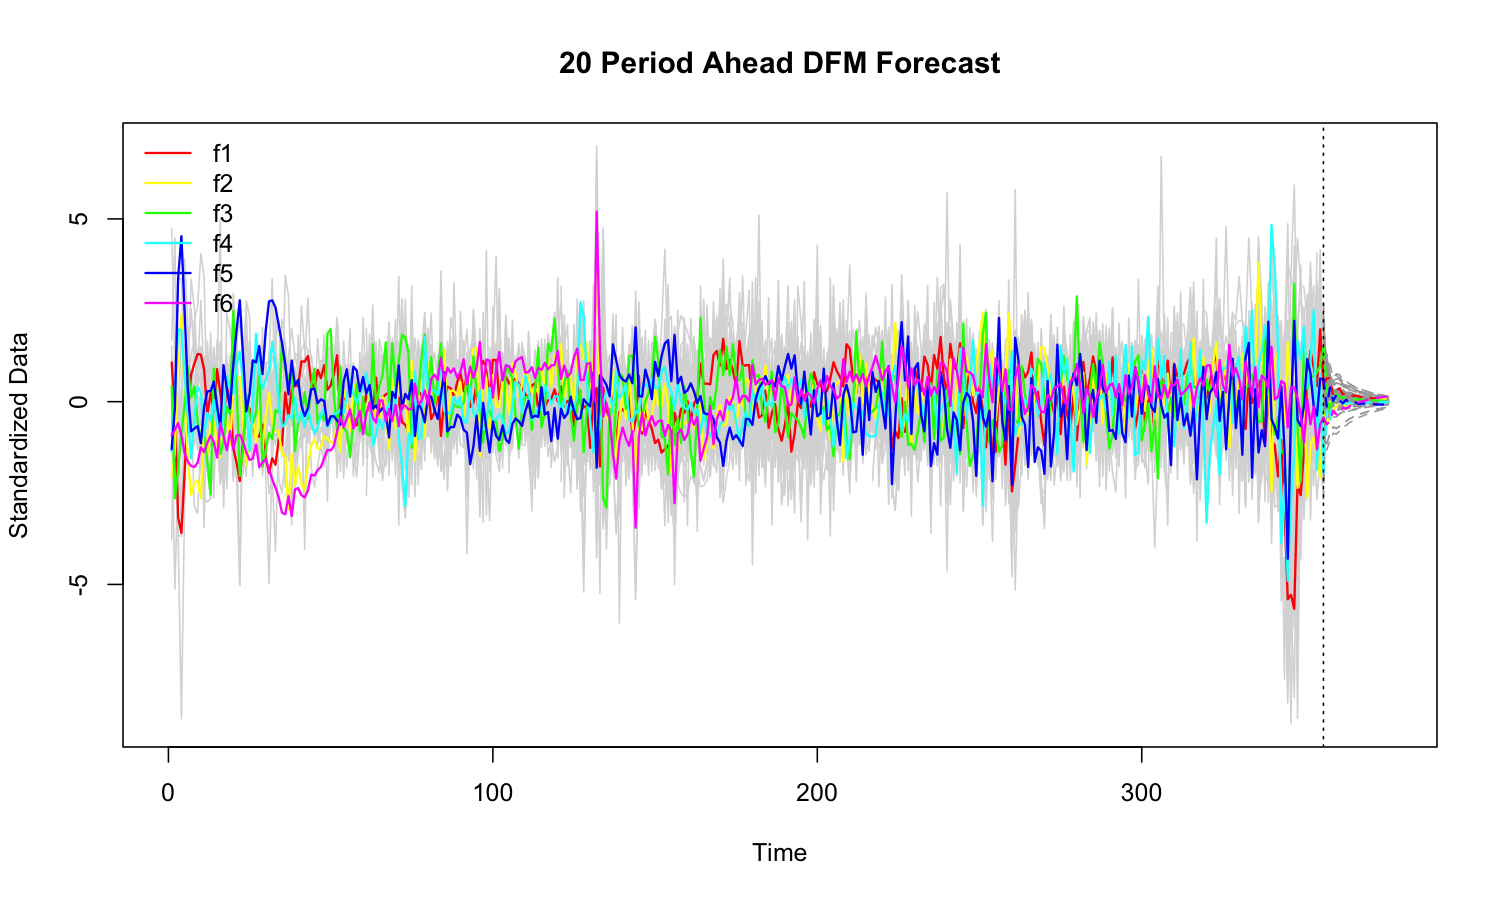
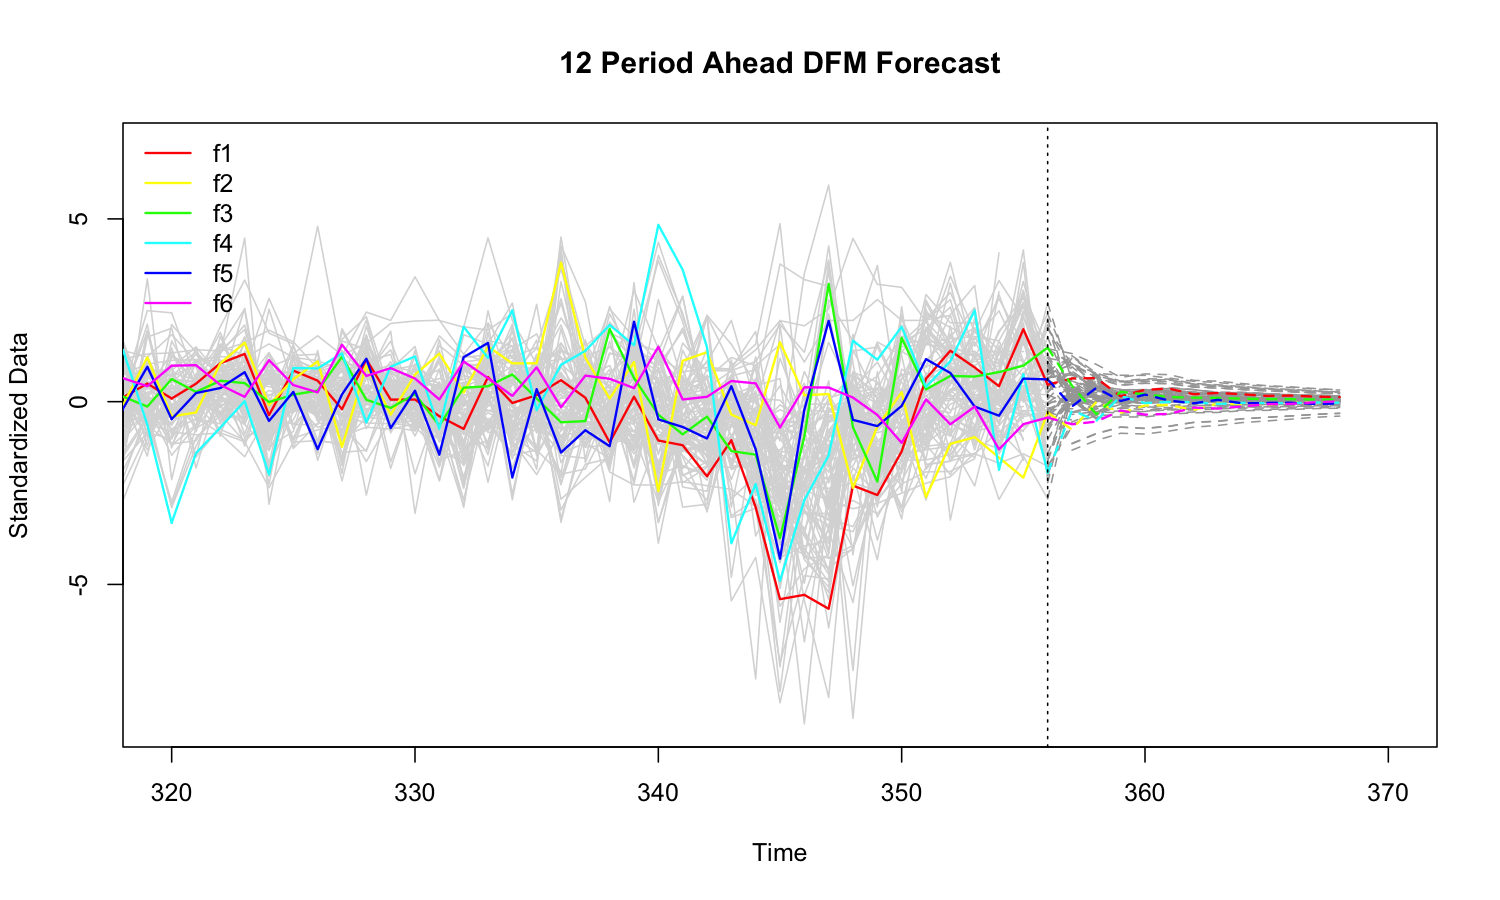
Minor fixes to README example.

diff --git a/README.md b/README.md
@@ -70,9 +70,7 @@ summary(mod)
 ```
 
 ```
-## Mixed Frequency Dynamic Factor Model
-## n = 92, nm = 92, nq = 0, T = 356, r = 6, p = 3
-## %NA = 25.8366, %NAm = NA
+## Dynamic Factor Model: n = 92, T = 356, r = 6, p = 3, %NA = 25.8366
 ## 
 ## Call:  DFM(X = diff(BM14_M), r = 6, p = 3)
 ## 
@@ -86,27 +84,20 @@ summary(mod)
 ## f6  356  -0.8361   -0.304  3.1406  -11.6611  15.4897
 ## 
 ## Factor Transition Matrix [A]
-##       L1.f1    L1.f2     L1.f3    L1.f4    L1.f5    L1.f6    L2.f1    L2.f2
-## f1  0.53029 -0.53009  0.367302  0.04607 -0.06351  0.10310  0.02457  0.11673
-## f2 -0.28380  0.07421 -0.032292  0.29741 -0.10094  0.21989  0.09958 -0.09149
-## f3  0.17607  0.12979  0.378798 -0.06662 -0.12236  0.06685 -0.08068  0.09101
-## f4  0.02711  0.08936  0.004643  0.37159  0.12100 -0.02763  0.01234 -0.05147
-## f5 -0.26227 -0.03469 -0.046294  0.12712  0.26847  0.03141  0.06400  0.01971
-## f6  0.08251  0.17619 -0.013374 -0.08731 -0.03875  0.27812 -0.01662  0.04877
-##       L2.f3    L2.f4     L2.f5    L2.f6    L3.f1    L3.f2    L3.f3    L3.f4
-## f1 -0.12638  0.23135  0.117184  0.21941  0.18478  0.02259 -0.03719 -0.07236
-## f2  0.06708 -0.09768 -0.043057  0.08489  0.21107  0.16261  0.03057  0.04835
-## f3 -0.22232  0.09799 -0.060666 -0.18028 -0.02773  0.01798  0.10143 -0.12420
-## f4  0.02195  0.01266  0.050912  0.05144 -0.05601  0.04665  0.05710 -0.11412
-## f5  0.04806 -0.03965 -0.009952 -0.18471  0.08332 -0.04640 -0.02047  0.02458
-## f6  0.02279  0.01163 -0.100859  0.07152  0.00792  0.06071  0.11381  0.02520
-##       L3.f5    L3.f6
-## f1 -0.03026 -0.12606
-## f2  0.12249  0.13357
-## f3  0.04207 -0.07011
-## f4 -0.05680 -0.01609
-## f5  0.16397  0.07820
-## f6 -0.17897  0.30328
+##       L1.f1    L1.f2     L1.f3    L1.f4    L1.f5    L1.f6    L2.f1    L2.f2    L2.f3
+## f1  0.53029 -0.53009  0.367302  0.04607 -0.06351  0.10310  0.02457  0.11673 -0.12638
+## f2 -0.28380  0.07421 -0.032292  0.29741 -0.10094  0.21989  0.09958 -0.09149  0.06708
+## f3  0.17607  0.12979  0.378798 -0.06662 -0.12236  0.06685 -0.08068  0.09101 -0.22232
+## f4  0.02711  0.08936  0.004643  0.37159  0.12100 -0.02763  0.01234 -0.05147  0.02195
+## f5 -0.26227 -0.03469 -0.046294  0.12712  0.26847  0.03141  0.06400  0.01971  0.04806
+## f6  0.08251  0.17619 -0.013374 -0.08731 -0.03875  0.27812 -0.01662  0.04877  0.02279
+##       L2.f4     L2.f5    L2.f6    L3.f1    L3.f2    L3.f3    L3.f4    L3.f5    L3.f6
+## f1  0.23135  0.117184  0.21941  0.18478  0.02259 -0.03719 -0.07236 -0.03026 -0.12606
+## f2 -0.09768 -0.043057  0.08489  0.21107  0.16261  0.03057  0.04835  0.12249  0.13357
+## f3  0.09799 -0.060666 -0.18028 -0.02773  0.01798  0.10143 -0.12420  0.04207 -0.07011
+## f4  0.01266  0.050912  0.05144 -0.05601  0.04665  0.05710 -0.11412 -0.05680 -0.01609
+## f5 -0.03965 -0.009952 -0.18471  0.08332 -0.04640 -0.02047  0.02458  0.16397  0.07820
+## f6  0.01163 -0.100859  0.07152  0.00792  0.06071  0.11381  0.02520 -0.17897  0.30328
 ## 
 ## Factor Covariance Matrix [cov(F)]
 ##           f1        f2        f3        f4        f5        f6
@@ -158,11 +149,11 @@ as.data.frame(mod) |> head()
 ```
 
 ```r
-# Forecasting 20 periods ahead
-fc <- predict(mod, h = 20)
+# Forecasting 12 periods ahead
+fc <- predict(mod, h = 12)
 
 # 'dfm_forecast' methods
-plot(fc)
+plot(fc, xlim = c(320, 370))
 ```
 
 <div class="figure">
